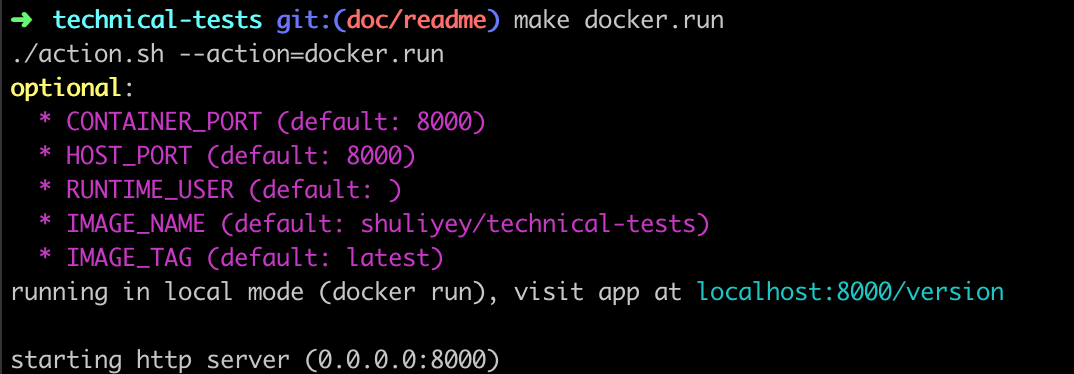
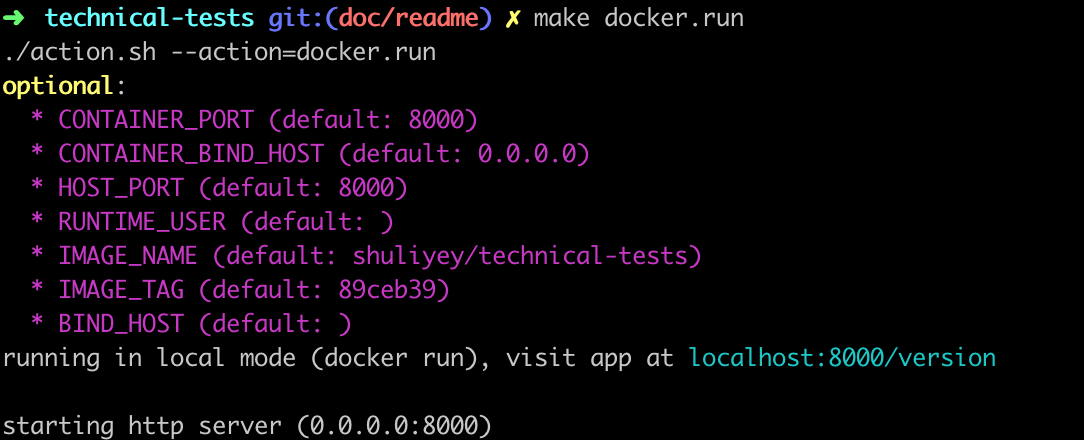
:pencil: update readme

Changed region(s): [[0.0, 0.0, 0.9525, 0.8529], [0.0, 0.9118, 0.4609, 1.0]]

diff --git a/readme/q2-application-containerisation-and-cicd-pipeline.md b/readme/q2-application-containerisation-and-cicd-pipeline.md
@@ -70,7 +70,7 @@ below are the application environment variables
 
 ### 4.1 docker `multistage` build
 
-[Dockerfile](../src/Dockerfile) to build the application image uses `multistage` build to optimise the final application image size/structure, first stage uses `golang` as the base image to build the final binary (`app`), this binary (`app`) is the only artifact that gets passed/embedded to the next stage (which is a clean `alpine` base image)
+[Dockerfile](../Dockerfile) to build the application image uses `multistage` build to optimise the final application image size/structure, first stage uses `golang` as the base image to build the final binary (`app`), this binary (`app`) is the only artifact that gets passed/embedded to the next stage (which is a clean `alpine` base image)
 
 ### 4.2 `nobody` at docker application runtime
 
@@ -109,12 +109,16 @@ pipeline triggered under this event will run
 * `run test`
 * `build artifacts`
 
+![anz technical zeyu q2 pipeline master](technical-tests-q2-pipeline-branch.png)
+
 3. **pull_request to `master` branch**
 
 pipeline triggered under this event will run
 
 * `run test`
 * `build artifacts`
+
+![anz technical zeyu q2 pipeline master](technical-tests-q2-pipeline-pull-request-master.png)
 
 4. **push `'v*'` tags**
 
@@ -150,9 +154,10 @@ builds the application docker image
 
 below environment variables can be altered
 
-* **GO_VERSION** (optional, default: 1.12.6)
+* **ALPINE_VERSION** (optinal, default: [grabs the latest version from https://golang.org/VERSION?m=text])
+* **GO_VERSION** (optional, default: [grabs the latest version from http://dl-cdn.alpinelinux.org/alpine/])
 * **IMAGE_NAME** (optional, default: shuliyey/technical-tests)
-* **IMAGE_TAG** (optional, default: latest)
+* **IMAGE_TAG** (optional, default: $(git rev-parse --short HEAD))
 * **GENERATE_INFO** (optional, default: true)
 
 ### 6.2 docker.run (`make docker.run`)
@@ -161,12 +166,12 @@ runs the application docker image
 
 below environment variables can be altered
 
-* **ENV** (optional, default: dev)
 * **CONTAINER_PORT** (optional, default: 8000)
+* **CONTAINER_BIND_HOST** (optional, default: "0.0.0.0")
 * **HOST_PORT** (optional, default: 8000)
 * **RUNTIME_USER** (optional, default: (this uses default docker runtime user specified in `Dockerfile`))
 * **IMAGE_NAME** (optional, default: shuliyey/technical-tests)
-* **IMAGE_TAG** (optional default: latest)
+* **IMAGE_TAG** (optional default: $(git rev-parse --short HEAD))
 
 **Note: make sure the `HOST_PORT` is available and not in use by other processes**
 

diff --git a/README.md b/README.md
@@ -30,7 +30,7 @@ below terminal **applications/tools** needs to be installed
 The finalised `Dockerfile` is available at [Dockerfile](./Dockerfile)
 
 * multi-stage build
-  * the `builder` section will be responsible of producing the final application binary `/app/golang-test`
+  * the `builder` section is responsible for producing the final application binary `/app/golang-test`
   * the final docker image uses `alpine` as the minimal based image and port the final application `/app/golang-test` produced by the `builder` section. This keeps the final image at its minimum, as the runtime image doesn't need the full dependency for building the application (golang packages dependent libraries along side with the application into a single executable binary)
 * cache optmisation
   * `Dockerfile` structure has been designed to achieve cache optmisation as it puts the static defined steps before the dynamic dependend steps, meaning the static steps will be cached for optmisation
